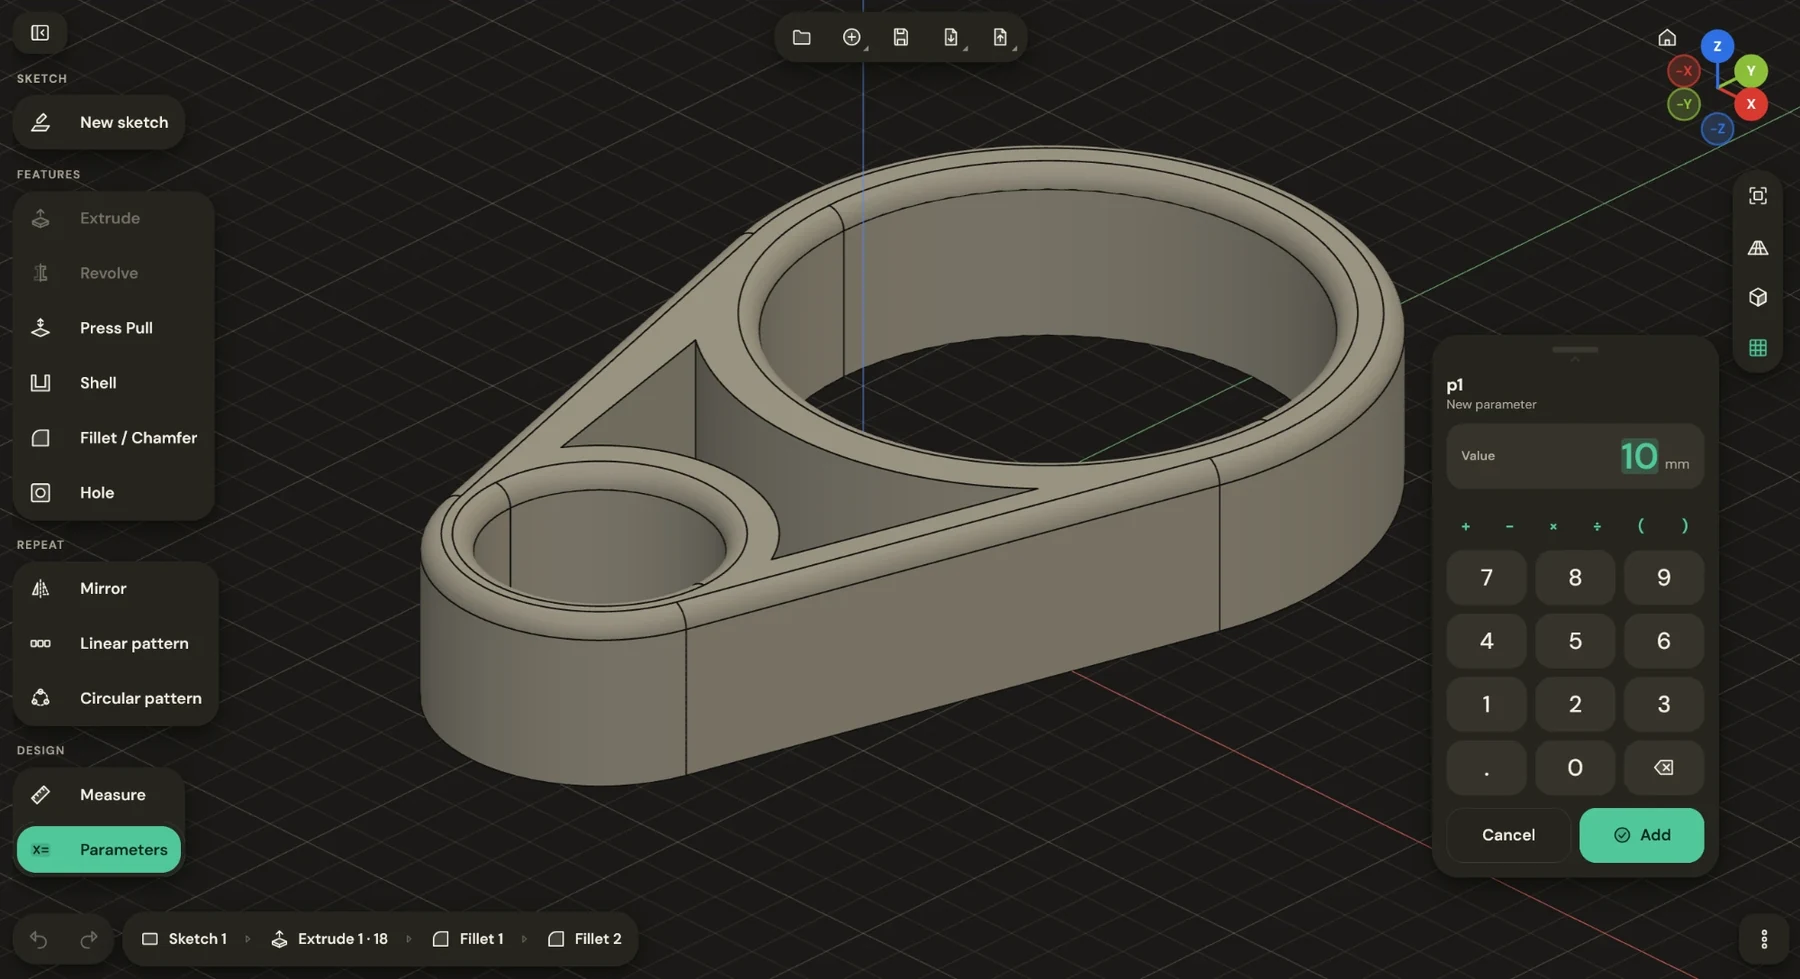
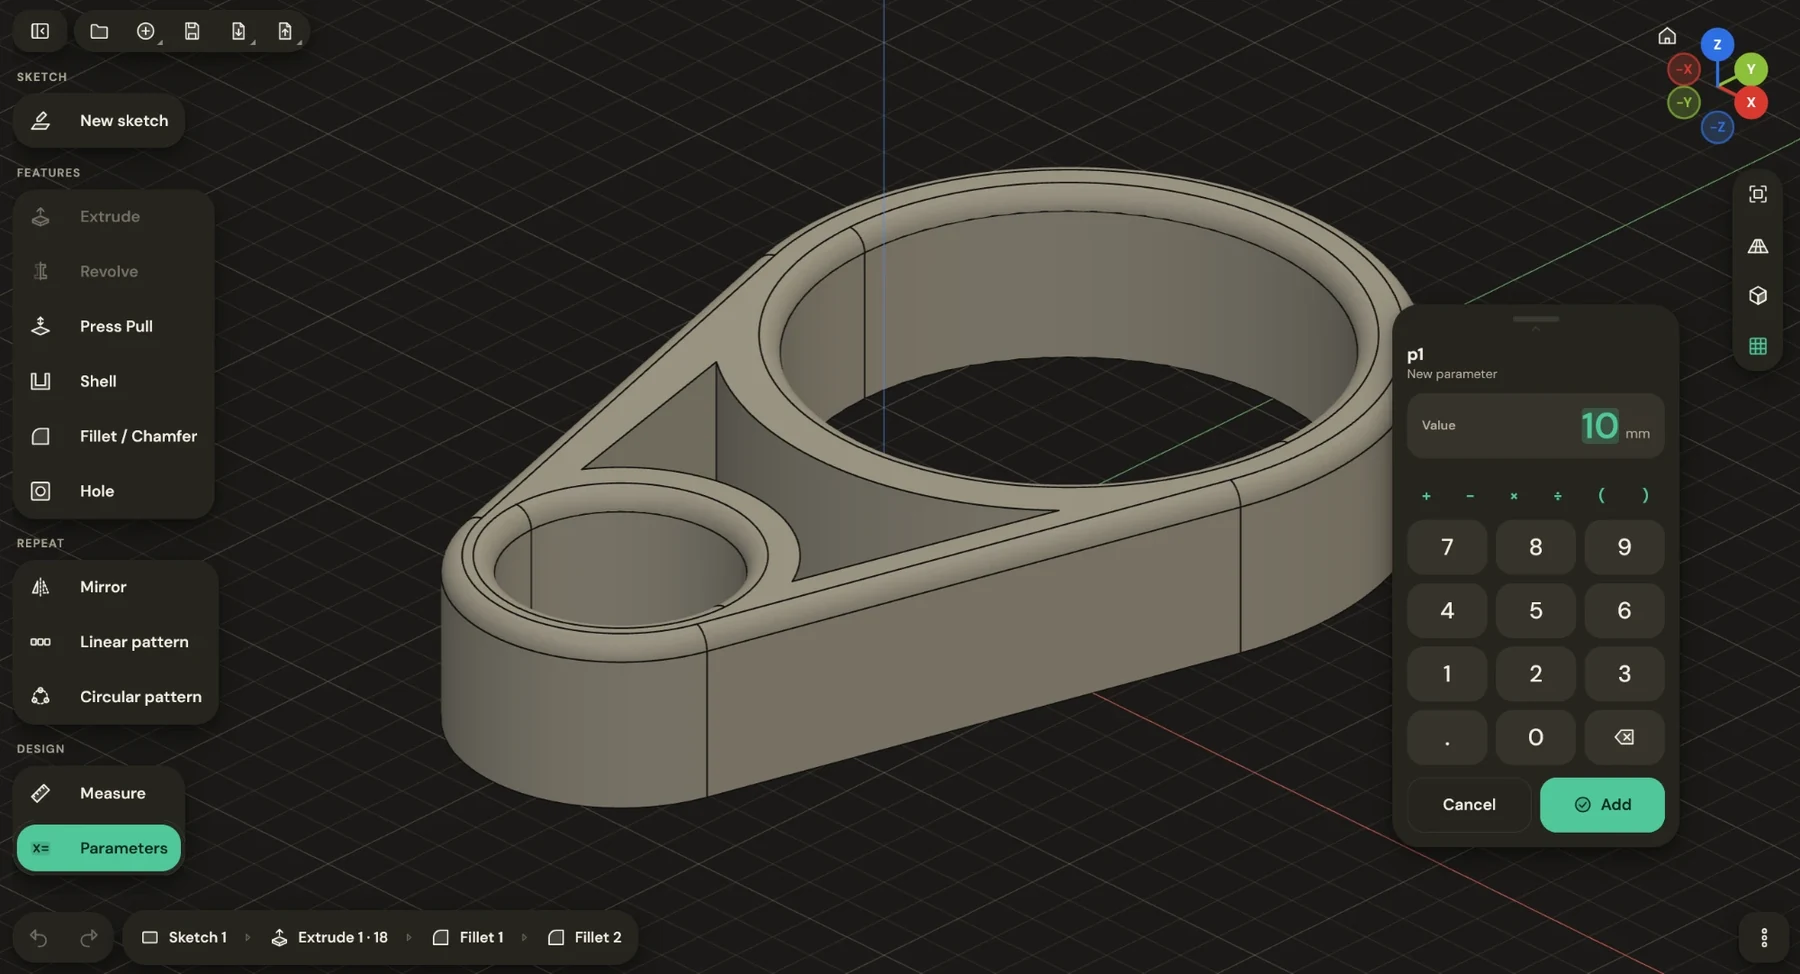
File bar at the top left, beside the fold button; README screenshot

diff --git a/src/style.css b/src/style.css
@@ -434,6 +434,8 @@ body.collapsed .section {
 /* The top bar: the file actions, as icons. */
 #workspace .ws-btn {
   color: var(--text);
+  min-height: 40px;
+  height: 40px;
   padding: 0 12px;
   gap: 2px;
 }
@@ -478,15 +480,15 @@ body.collapsed .section {
   background: var(--card2);
 }
 /* Sketch · Part · Assembly: where you are, and the way to the others. */
+/* Top left, on the line of the fold button and as tall as it: one block with the tool column. */
 #workspace {
   position: fixed;
   top: var(--gap);
-  left: 50%;
-  transform: translateX(-50%);
+  left: calc(var(--gap) + 58px);
   z-index: 11;
   display: flex;
-  gap: 3px;
-  padding: 4px;
+  gap: 0;
+  padding: 0 2px;
   border-radius: 22px;
   background: var(--card);
   box-shadow: var(--shadow);

diff --git a/README.md b/README.md
@@ -10,7 +10,7 @@
 </p>
 
 <p align="center">
-  <img src="docs/screenshot.webp" width="900" alt="WaffleCAD in the Papier Nuit theme: a filleted link with two rings joined by a ribbed web, a new parameter typed on the keypad, the file actions as icons at the top, the tools in one card per section and the history in one bar">
+  <img src="docs/screenshot.webp" width="900" alt="WaffleCAD in the Papier Nuit theme: a filleted link with two rings joined by a ribbed web, a new parameter typed on the keypad, the file actions as icons at the top left, the tools in one card per section and the history in one bar">
 </p>
 
 ## Features
